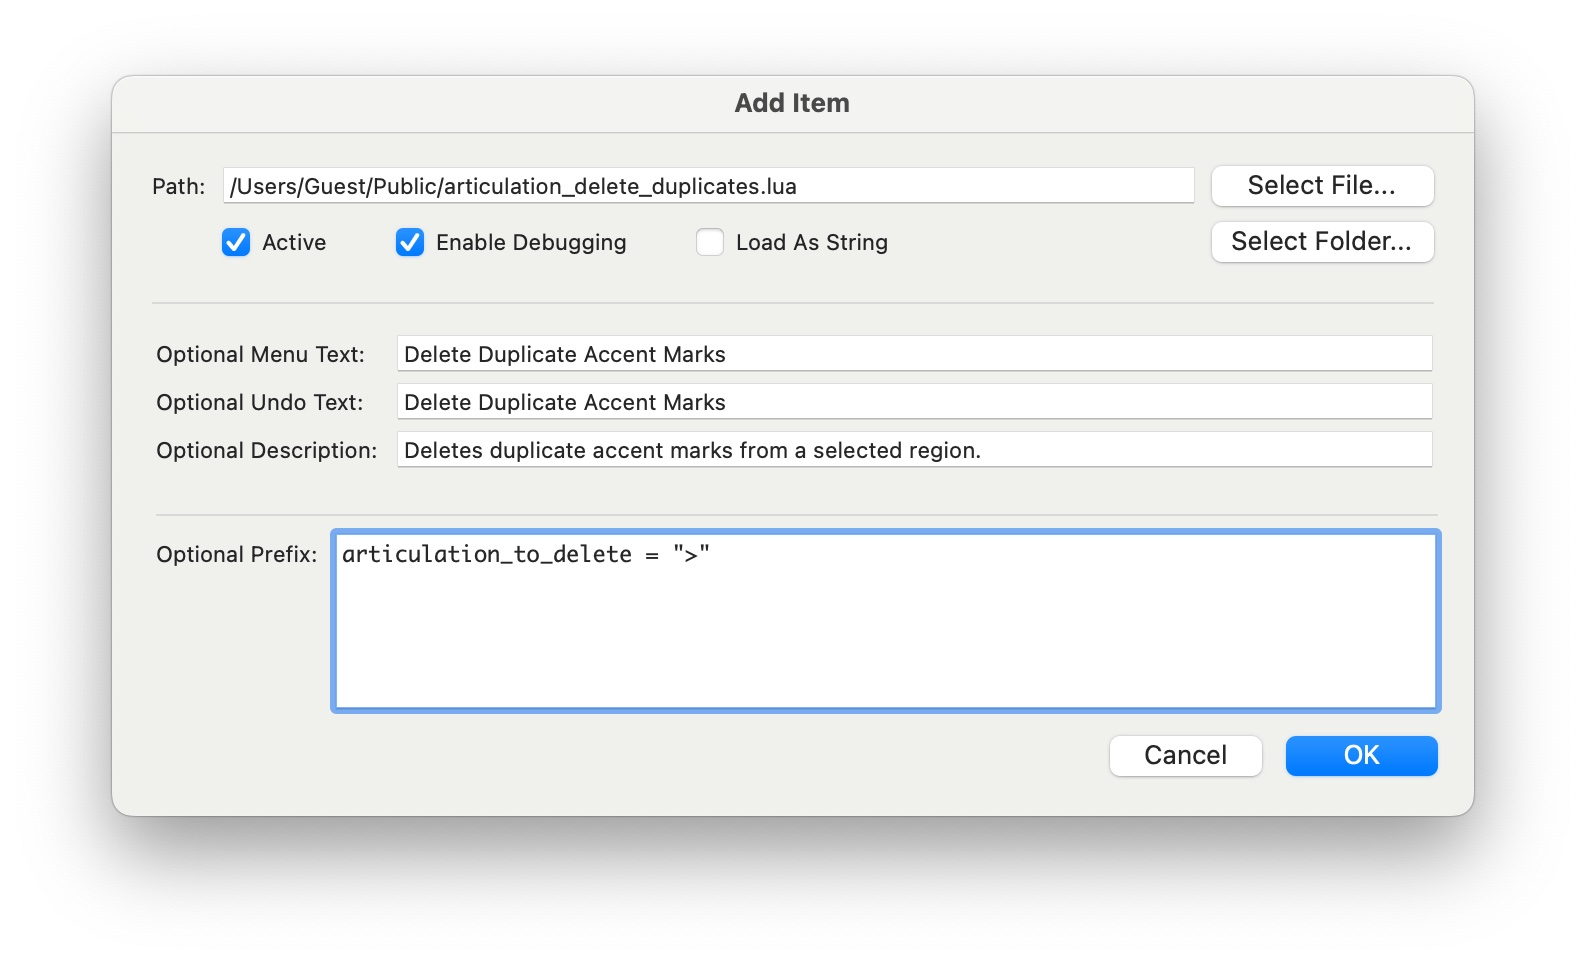
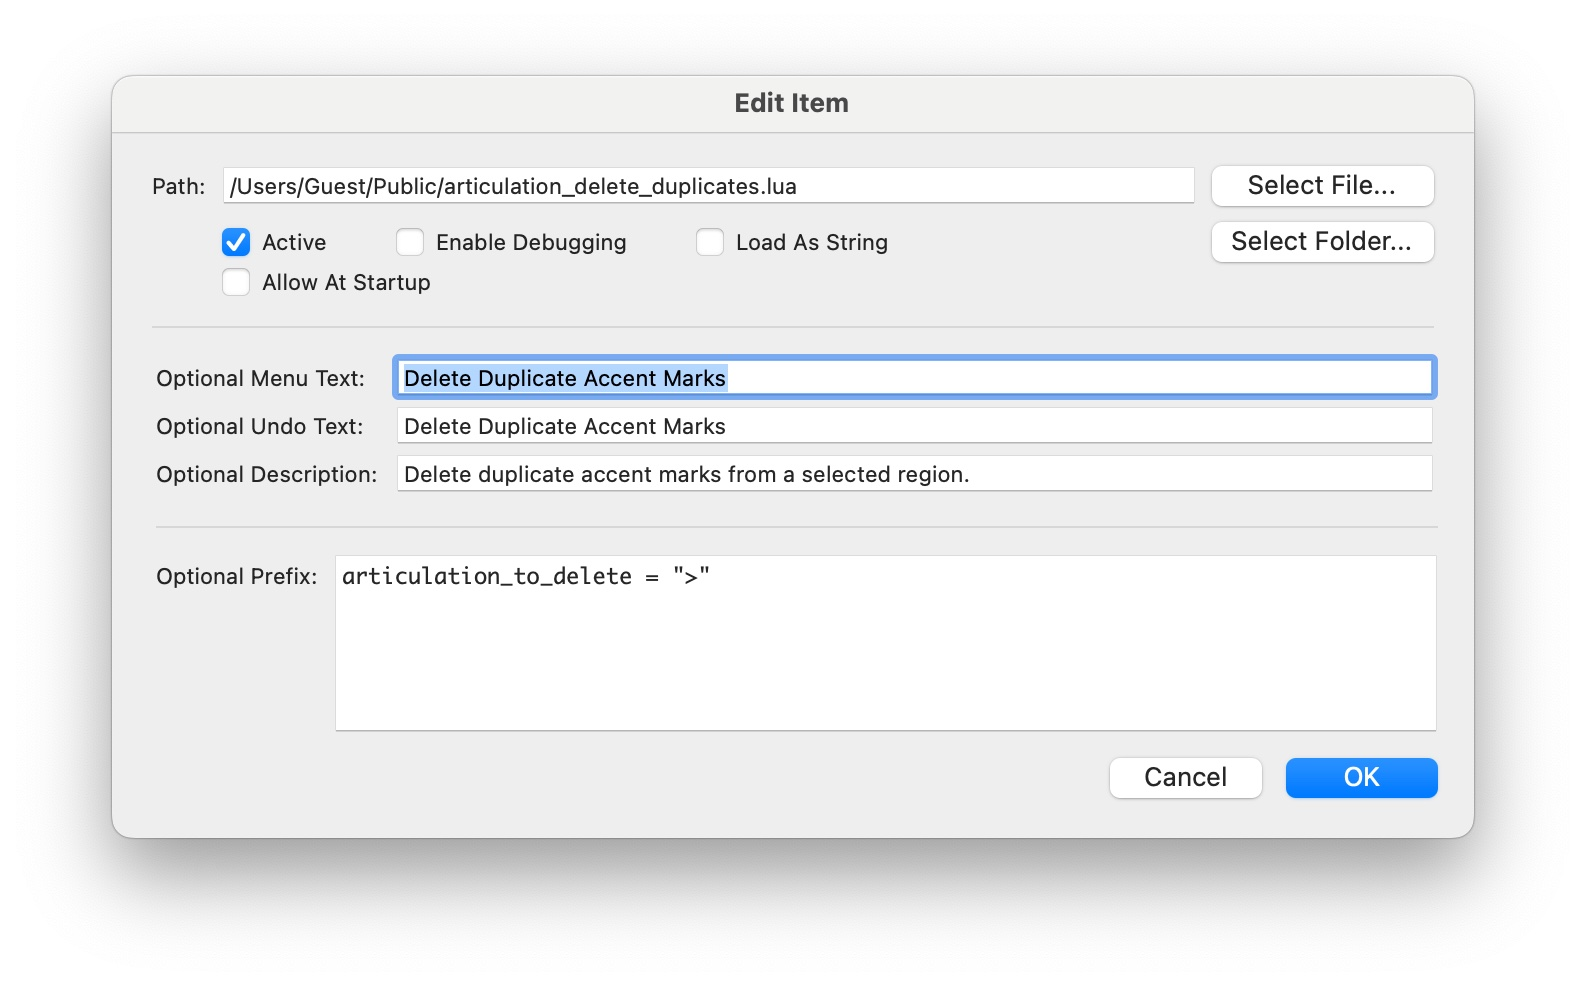
add documentation for user-facing security features

diff --git a/docs/rgp-lua/rgp-lua-configuration.md b/docs/rgp-lua/rgp-lua-configuration.md
@@ -45,8 +45,11 @@ Add/Edit Dialog
 
 * Embedding the [`luasocket`](https://aiq0.github.io/luasocket/index.html) library into the Lua machine as global `socket` before executing the script. This allows communication with an external debugger, but it also gives affected scripts access to your network and potentially the Internet, so only use it with scripts from trusted sources.
 * Reprocessing the `plugindef()` function each time the script runs. This allows for faster iteration with possibly a slight performance hit. Note that some of the properties of `finaleplugin` will not be recognized until after the next time you run the script, and a few (such as the menu text and min/max versions) will not be recognized until you restart Finale.
+* Disabling hash checking for `ExecuteAtStartup` scripts. With debugging enabled, you can modify the script contents at will without any challenges from _RGP Lua_.
 
 **Load As String.** Normally _RGP Lua_ sends the entire script file to the Lua interpreter. However, it is possible to include a non-Lua appendix delimited by a `NULL` character in the file. Selecting this option causes _RGP Lua_ to first load the file into a string and send that string to the Lua interpreter. The Lua interpreter then stops at the `NULL` character. A script file can override this option by setting `finaleplugin.LoadAsString` in the `plugindef()` function.
+
+**Allow At Startup.** If a script requests to be run when Finale starts up, the user can permit it to do so by selecting this option. See `ExecuteAtStartup` in the [finaleplugin properties](/docs/rgp-lua/finaleplugin-properties). If the script has not requested execution at startup, this option does nothing.
 
 **Optional Menu Text.** Specifies the menu text to be used with this instance of the selected script file. If omitted, _RGP Lua_ uses the menu text returned by the `plugindef()` function in the script. If Optional Menu Text is supplied, this instance of the script will not load any `finaleplugin.AdditionalMenuOptions` configured in the `plugindef()` function. This option is not available for Auto Folders.
 

diff --git a/docs/rgp-lua/standalone-configuration.md b/docs/rgp-lua/standalone-configuration.md
@@ -43,6 +43,8 @@ A simple way to create this file is to configure the main instance of _RGP Lua_ 
 C:\Users\<user>\AppData\Roaming
 ```
 
+Note that if you change the contents of the config file in the preferences folder externally to _RGP Lua_, it will challenge the user to confirm the modified configuration the next time Finale starts up.
+
 Of particular interest are the following attributes. Neither can be modified by the _RGP Lua_ plugin itself. You must edit them in a text editor.
 
 ```
@@ -55,7 +57,7 @@ FromRGPLuaDirectory (Script tag)
 ```
 A setting of `true` causes _RGP Lua_ to prepend its running folder to the file path specified by the `Path` tag. It allows you to create a stand-alone configuration that is not dependent on any particular user's setup. If any `Script` element sets this value to `true`, it is advisable also to set `IncludeUI` to `false`.
 
-To keep the user experience as simple as possible, it is **strongly recommended** to suppress _RGP Lua’s_  configuration option for these kinds of installations. The goal should be that users only see configuration options for instances of the plugin that they have installed themselves.
+To keep the user experience as simple as possible, it is **strongly recommended** to suppress _RGP Lua’s_  configuration option for these kinds of installations. The goal should be that users only see configuration options for the instance(s) of the plugin that they have installed themselves.
 
 ```
 AllowStartup (Script tag)
